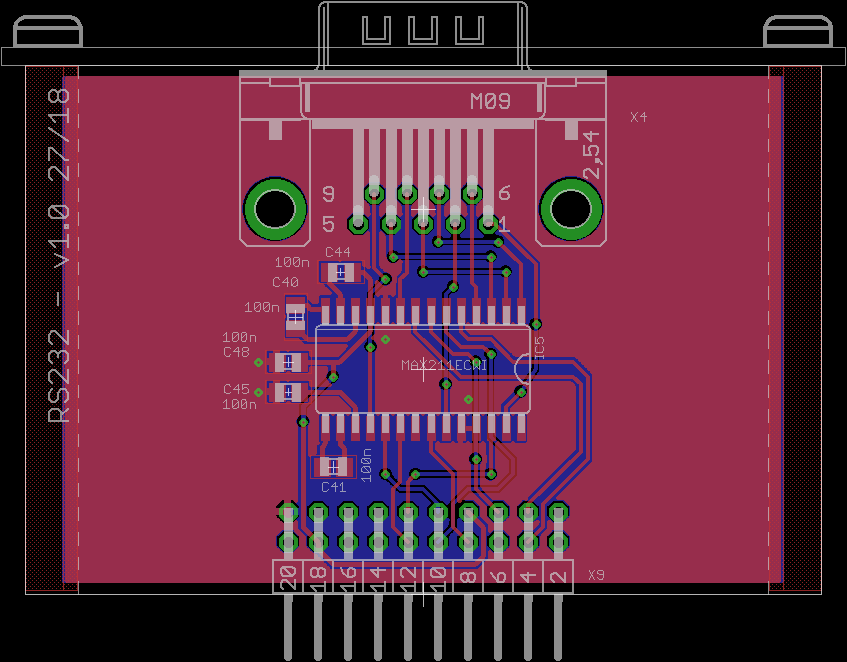
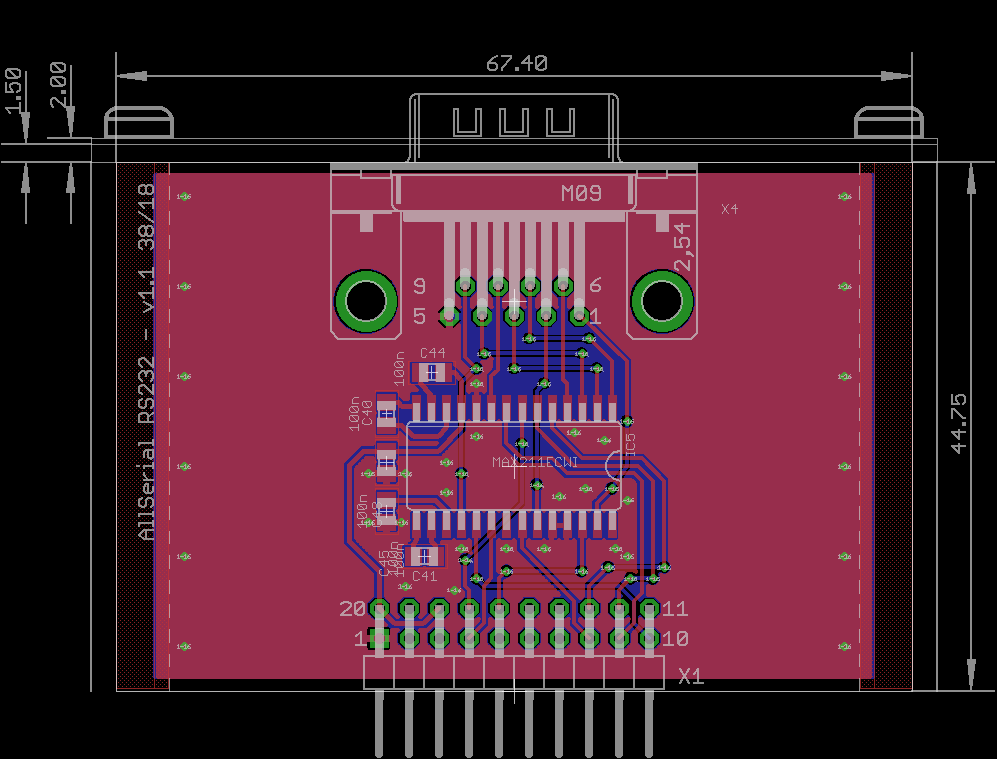
update png & cleanup

diff --git a/README.MD b/README.MD
@@ -1,26 +1,31 @@
 # AllSerial
-An universal open source USB-serial converter for RS232, RS485, RS232, TTL, TTY current loop, mBus
+An universal sophisticated USB-serial converter
 
 ## Features
+- Open source
 - Isolated
 - Reset button for reenumerating device on the USB
-- Status LEDs
+- Status LEDs (RX, TX, Power, TXEN)
 - modular, just exchange daughterboard for different interfaces
+- RS232 completley connected (RXD, TXD, RTS, CTS, DTR, DSR, RI, DCD)
+- RS485, RS422 with Handshake
+- TTY current loop 4/3/2 wire active/passive
+- LIN
+- TTL 1.8/2.5/3.3/5 V
 
 # Modules
 ## 1A Mainboard FT232
-![PCB](./1_MAIN/1_MAIN_SCHEM.png)
-![PCB](./1_MAIN/1_MAIN_BOARD.png)
-![Front panel](./1_MAIN/FRONT.svg)
+![PCB](./1_MAIN_FTDI/1A_MAIN_SCHEM.png)
+![PCB](./1_MAIN/1A_MAIN_BOARD.png)
 * Isolated between controller and daughterboards
 * pin header for connecting logicanalyer
+* Reichelt Warenkorb: https://www.reichelt.de/my/1489962
 
 ## 2 RS422/RS485
 ![PCB](./2_RS485_RS422/2_RS485_RS422_SCHEM.png)
 ![PCB](./2_RS485_RS422/2_RS485_RS422_BOARD.png)
-![Front panel](./2_RS485_RS422/FRONT.svg)
 * Jumper for termination
-* Second doublepait for RS422 with handshake lines
+* Additional doublepair for RS422 with handshake lines
 
 ## 3 RS232
 ![PCB](./3_RS232/3_RS232_SCHEM.png)
@@ -31,25 +36,28 @@ An universal open source USB-serial converter for RS232, RS485, RS232, TTL, TTY 
 
 ## 4 TTL
 ![PCB](./4_TTL/4_TTL_BOARD.png)
-![Front panel](./4_TTL/FRONT.svg)
+![PCB](./4_TTL/4_TTL_SCHEM.png)
 * Full connection: TXD, RXD, CTS, RTS, DTR, DSR, DCD, RI
-* Selectable voltage 5 V, 3.3 V, external
+* Selectable voltage 5 V, 3.3 V, 2.5 V, 1.8 V, external
 
 ## 5 Current loop (TTY)
 ![PCB](./5_TTY/5_TTY_SCHEM.png)
 ![PCB](./5_TTY/5_TTY_BOARD.png)
-![Front panel](./5_TTY/FRONT.svg)
 * Jumper for mode (2/3/4-wire, passiv/active)
-* Jumper for currentselection (20 mA / 40 mA)
+* Jumper for currentselection (5 / 20 / 60 mA)
 
 ## 6 LIN
-![PCB](./6_LIN/PCB.png)
-![Front panel](./6_LIN/FRONT.svg)
+![PCB](./6_LIN/6_LIN_SCHEM.png)
+![PCB](./6_LIN/6_lin_board.png)
 * Jumper for master
 
 ## 7 mBus master
+planned
+
+## 8 eBus
+planned
+
+## 9 1wire bus
 
 # notes
-Housing: Fischer AKG 71 24 100 ME
-Mainboard LEDs Mentor 1296.1004
 USB hardware design guide for FTDI ICs: https://www.google.com/url?sa=t&rct=j&q=&esrc=s&source=web&cd=3&ved=0ahUKEwjRm7euw6jcAhUHKewKHaPXCe0QFghIMAI&url=http%3A%2F%2Fwww.ftdichip.com%2FSupport%2FDocuments%2FAppNotes%2FAN_146_USB_Hardware_Design_Guidelines_for_FTDI_ICs.pdf&usg=AOvVaw03a2woa2nwI7w2zJgOb3nb
